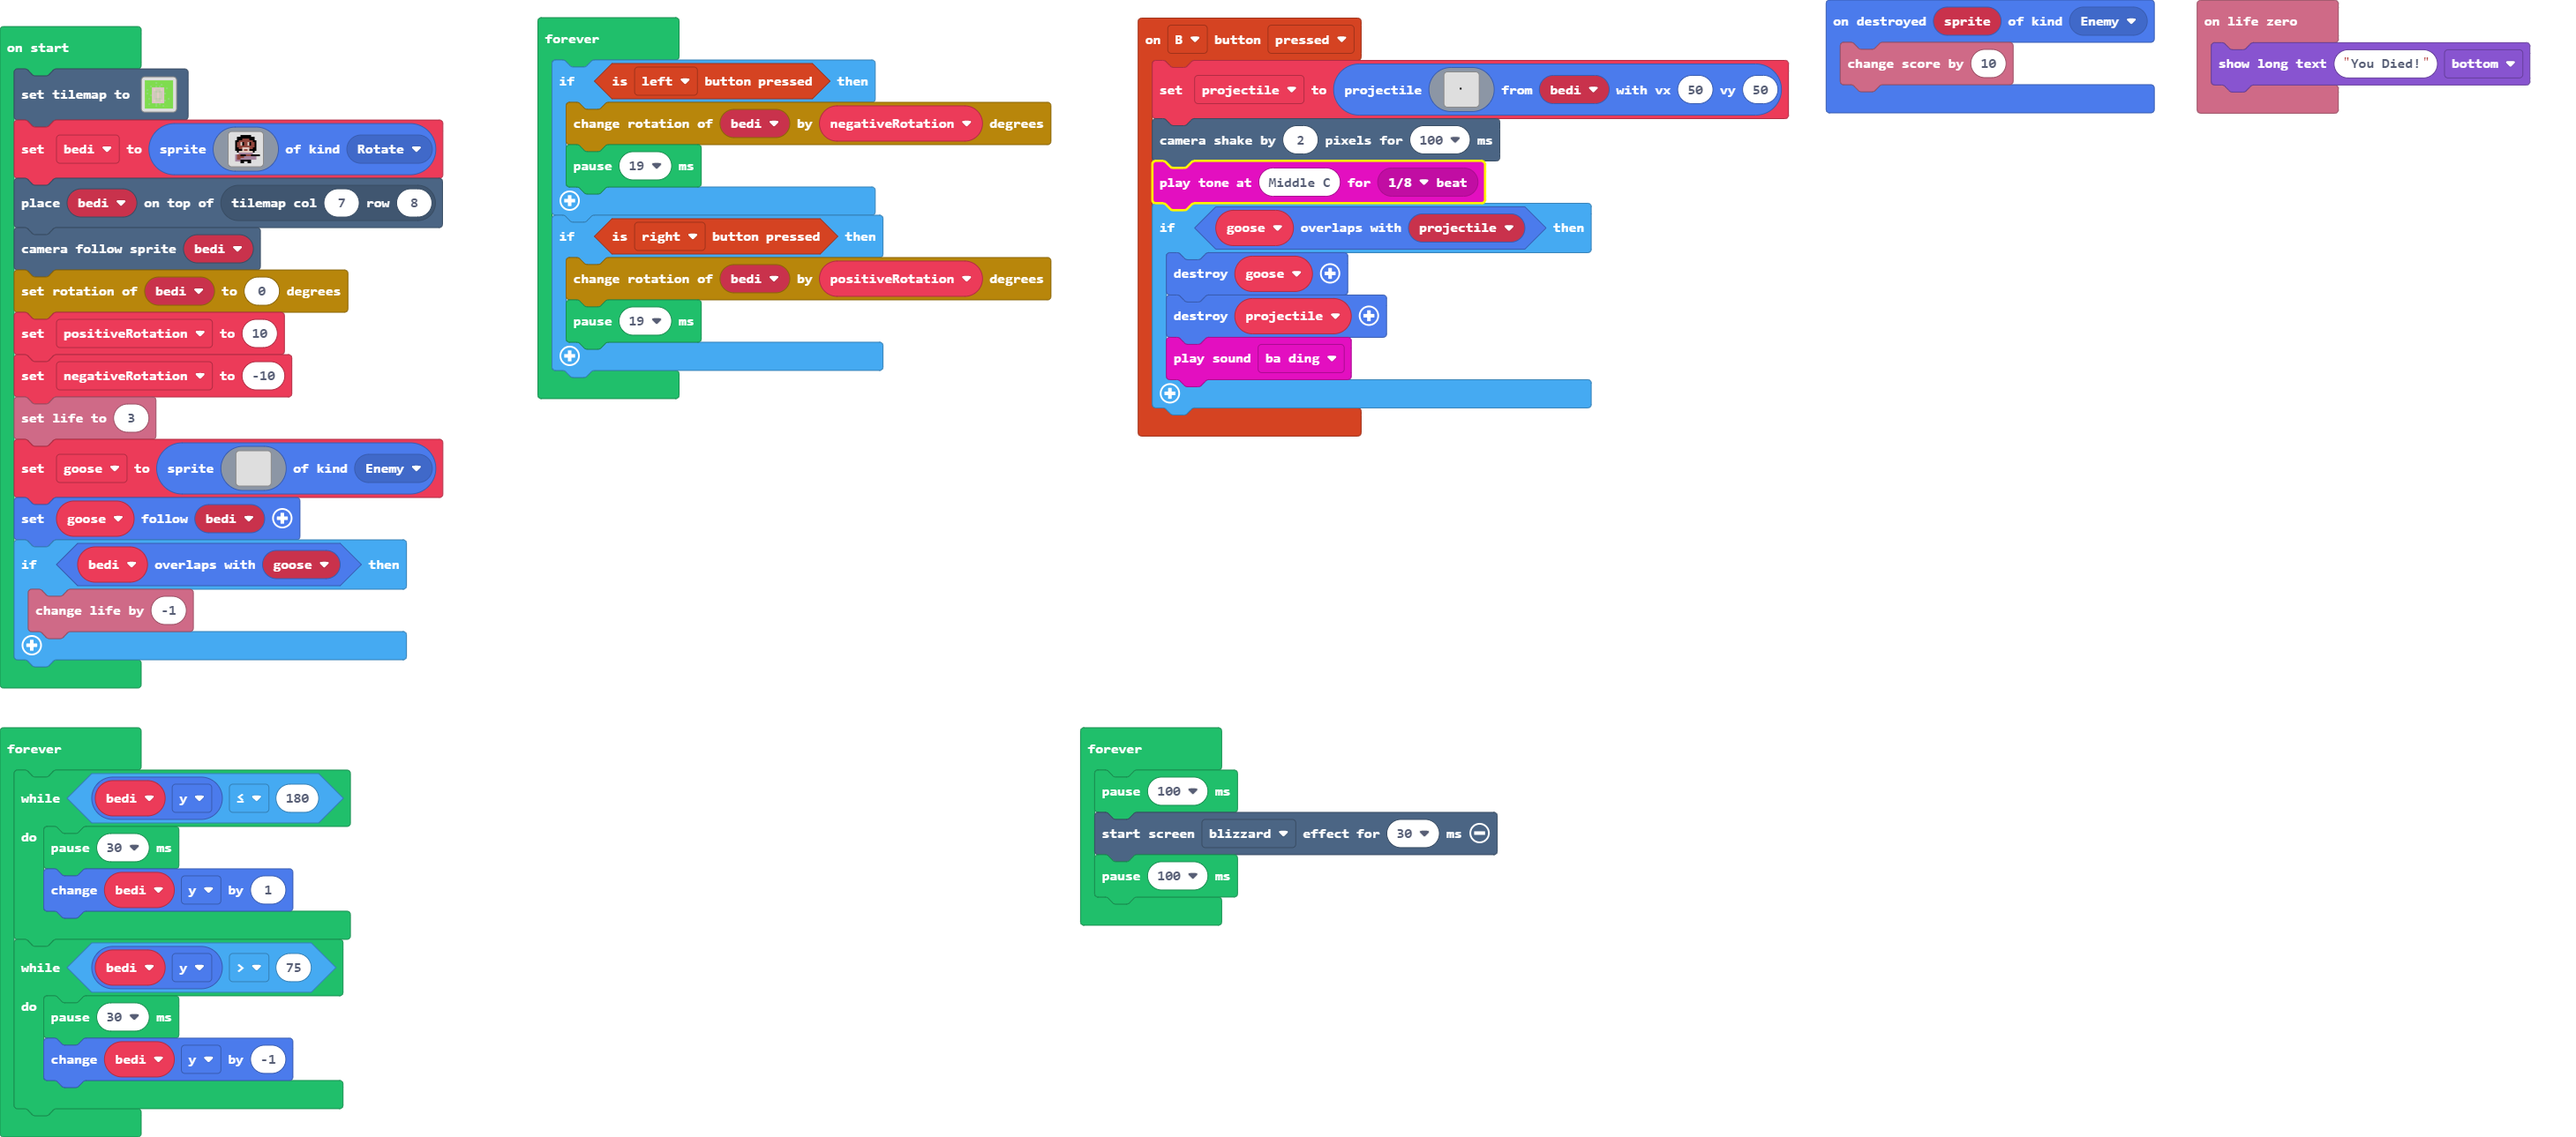
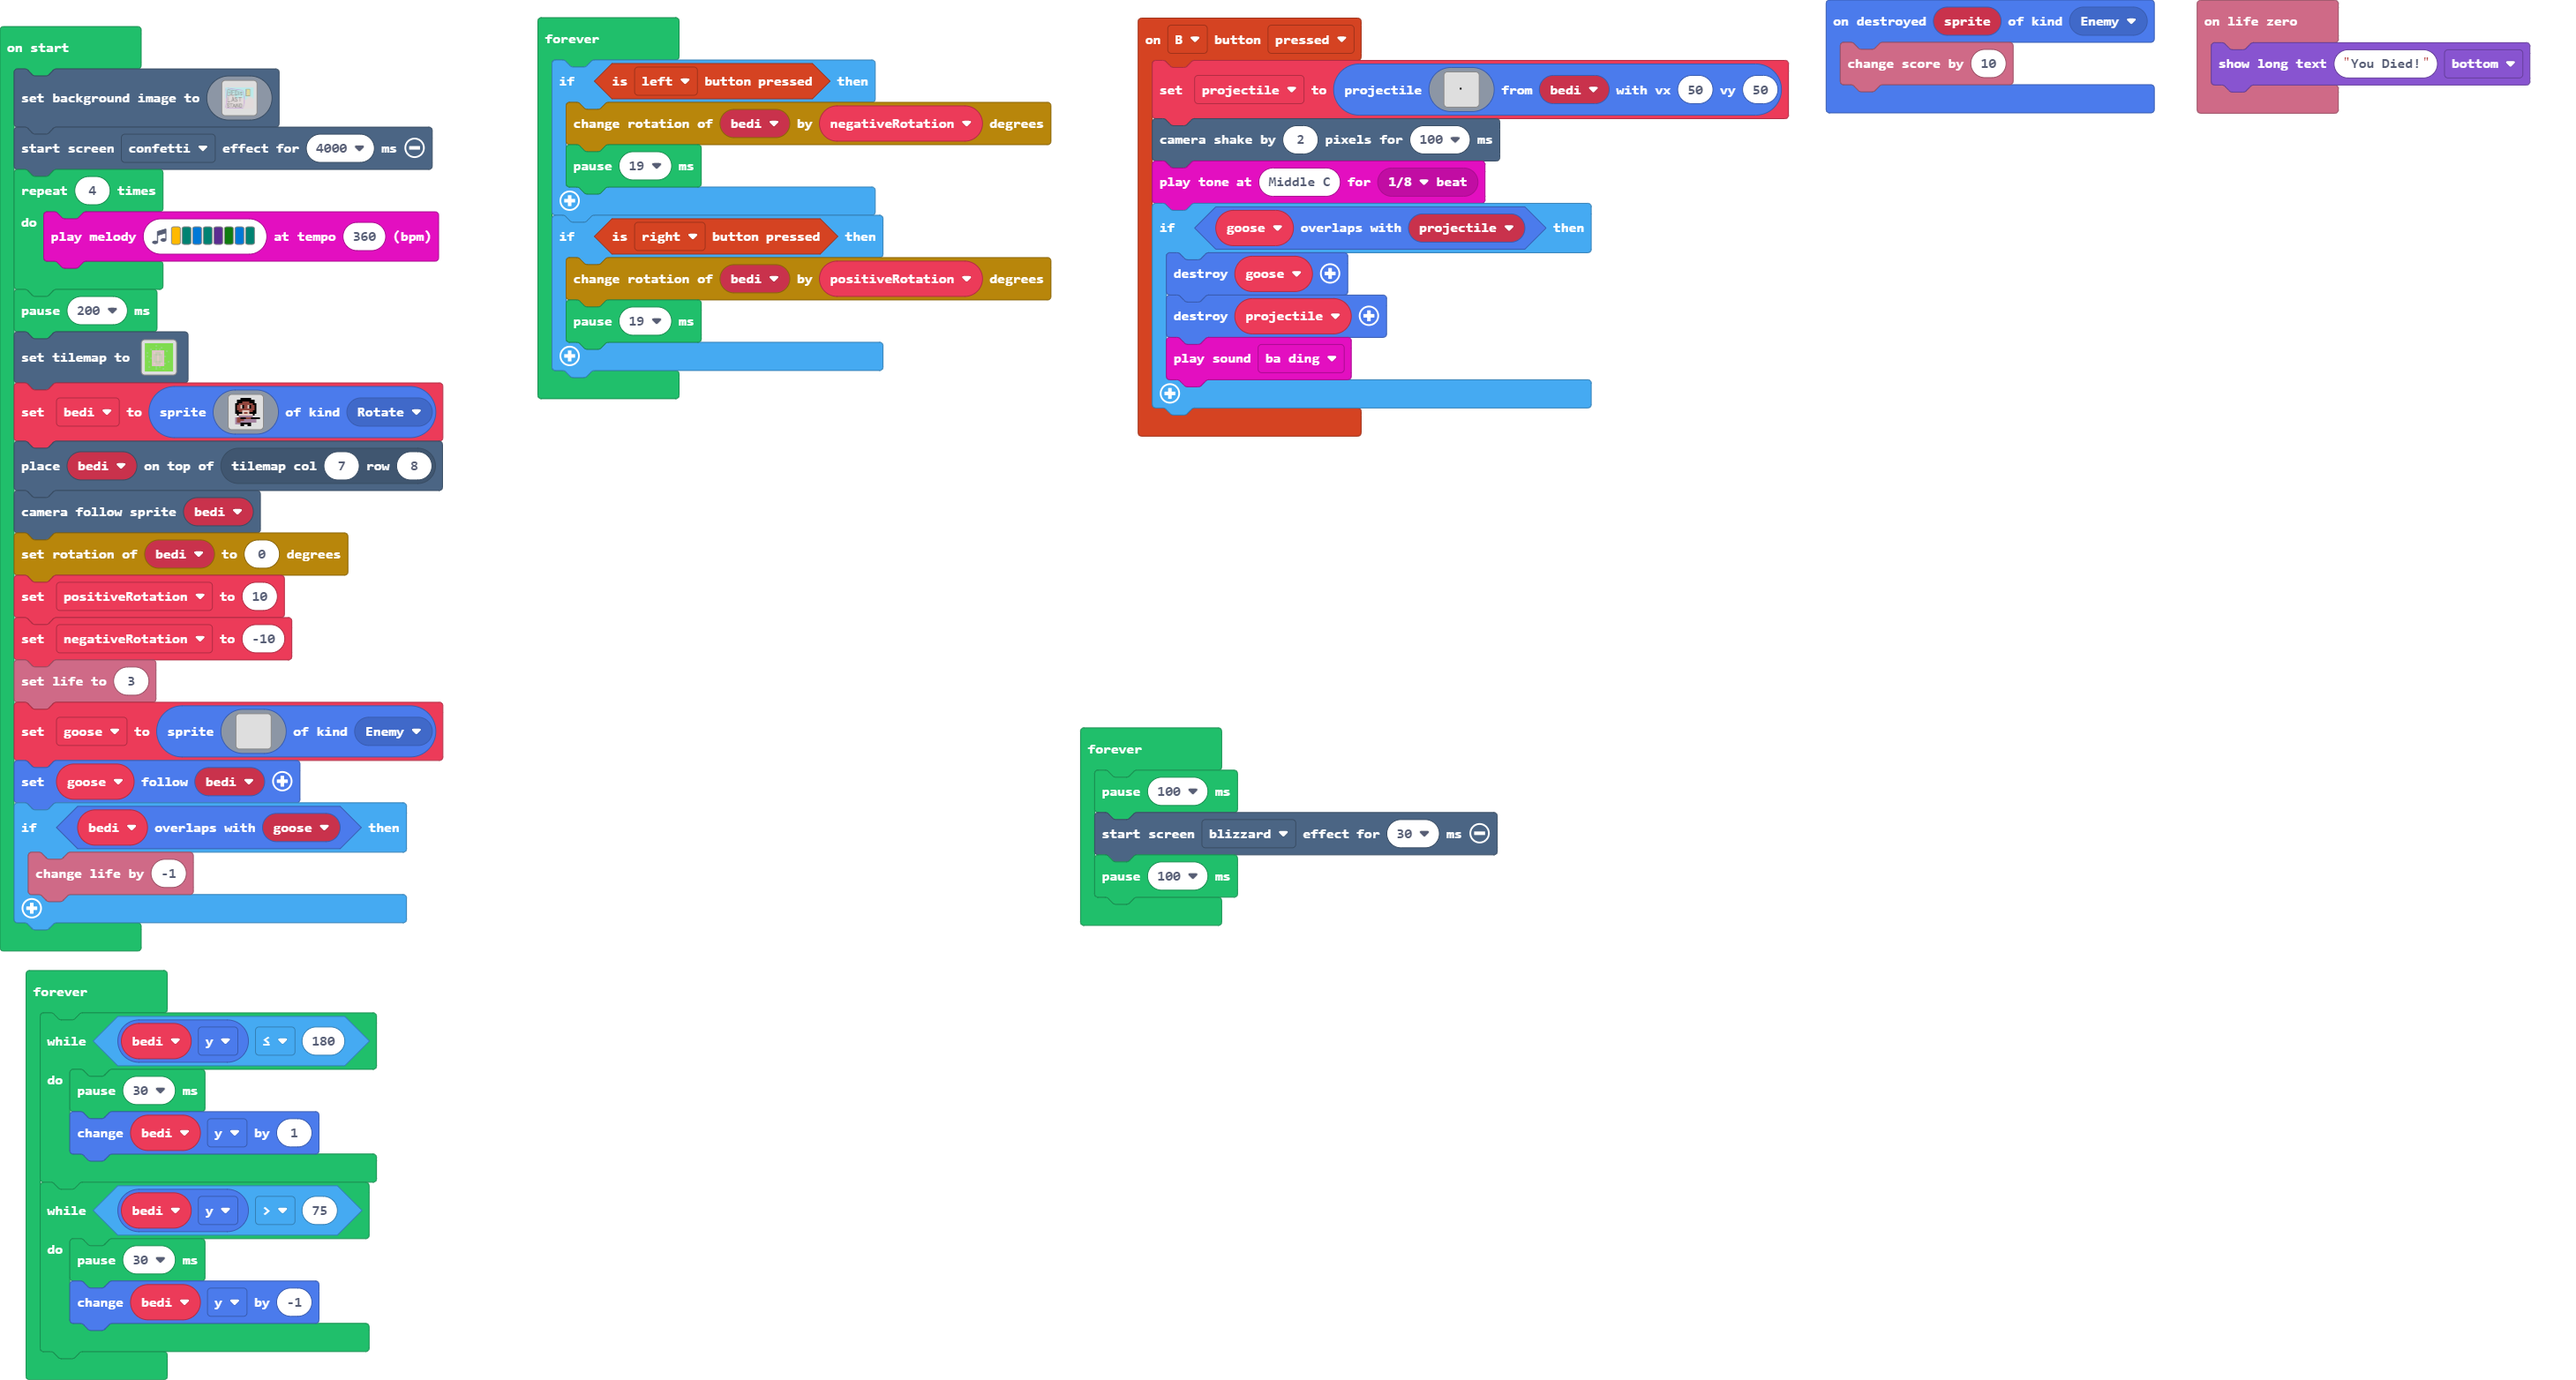
Bunch more stuff working

Changed region(s): [[0.0, 0.0, 0.4053, 1.0], [0.4365, 0.0, 0.9976, 0.4034], [0.4053, 0.5275, 0.5923, 0.8379]]

diff --git a/main.ts b/main.ts
@@ -37,6 +37,133 @@ sprites.onDestroyed(SpriteKind.Enemy, function (sprite) {
 let projectile: Sprite = null
 let goose: Sprite = null
 let bedi: Sprite = null
+scene.setBackgroundImage(img`
+    9999999999999999999999999999999999999999999999999999999999999999999999999999999999999999999999999999999999999999999999999999999999999999999999999999999999999999
+    9999999999999999999999999999999999999999999999999999999999999999999999999999999999999999999999999999999999999999999999999999999999999999999999999999999999999999
+    9999999999999999999999999999999999999999999999999999999999999999999999999999999999999999999999999999999999999999999999999999999999999999999999999999999999999999
[66 lines of base64/hex data omitted]
+    ddddddddaaadddfffddddddddddddddddddddddfffddddffffddddddddddddffffffdddddddddddddddfffddddddddddddddddddddddaaaddddddddddddddddddddddddddddddddddddddddddddddddd
+    ddddddddaaadddfffdddddddddddddddddddddffffdddddfffddddddddddddddffffdddddddddddddddfffddddddddddddddddddddddaaaddddddddddddddddddddddddddddddddddddddddddddddddd
+    ddddddddaaadddfffdddddddddddddddddddddfffffffffffffddddddddddddddffffddddddddddddddfffddddddddddddddddddddddaaaddddddddddddddddddddddddddddddddddddddddddddddddd
+    dddddddaaaadddfffdddddddddddddddddddddfffffffffffffdddddddddddddddfffddddddddddddddfffdddddddddddddddddddddaaaaddddddddddddddddddddddddddddddddddddddddddddddddd
+    dddddddaaaadddfffdddddddddddddddddddddfffffffffffffdddddddddddddddfffddddddddddddddfffdddddddddddddddddddddaaaaddddddddddddddddddddddddddddddddddddddddddddddddd
+    dddddddaaaddddfffdddddddddddddddddddddfffdddddddfffddddfffddddddddfffddddddddddddddfffdddddddddddddddddddddaaadddddddddddddddddddddddddddddddddddddddddddddddddd
+    dddddddaaaddddfffddddddddddddddddddddffffdddddddffffdddfffddddddddfffddddddddddddddfffdddddddddddddddddddddaaadddddddddddddddddddddddddddddddddddddddddddddddddd
+    dddddddaaaddddfffddddddddddddddddddddffffdddddddffffdddfffffddddddfffddddddddddddddfffdddddddddddddddddddddaaadddddddddddddddddddddddddddddddddddddddddddddddddd
+    dddddddaaaddddfffddddddddddddddddddddfffdddddddddfffddddfffffffdddfffddddddddddddddfffdddddddddddddddddddddaaadddddddddddddddddddddddddddddddddddddddddddddddddd
+    dddddddaaaddddfffddddddddddfffffdddddfffdddddddddfffddddfffffffffffffddddddddddddddfffdddddddddddddddddddddaaadddddddddddddddddddddddddddddddddddddddddddddddddd
+    ddddddaaaaddddfffddddddfffffffffdddddfffdddddddddffffdddfffffffffffddddddddddddddddfffddddddddddddddddddddaaaadddddddddddddddddddddddddddddddddddddddddddddddddd
+    ddddddaaaaddddfffdffffffffffffffdddddfffdddddddddffffddddddffffffffdddddddddddddddddddddddddddddddddddddddaaaadddddddddddddddddddddddddddddddddddddddddddddddddd
+    ddddddaaadddddfffffffffffffffddddddddfffddddddddddfffdddddddddddddddddddddddddddddddddddddddddddddddddddddaaaddddddddddddddddddddddddddddddddddddddddddddddddddd
+    ddddddaaadddddfffffffffffdddddddddddddddddddddddddddddddddddddddddddddddddddddddddddddddddddddddddddddddddaaaddddddddddddddddddddddddddddddddddddddddddddddddddd
+    ddddddaaadddddffffffddddddddddddddddddddddddddddddddddddddddddddddddddddddddddddddddddddddddddddddddddddddaaaddddddddddddddddddddddddddddddddddddddddddddddddddd
+    ddddddaaaddddddfffddddddddddddddddddddddddddddddddddddddddddddddddddddddddddddddddddddddddddddddddddddddddaaaddddddddddddddddddddddddddddddddddddddddddddddddddd
+    dddddaaaadddddddddddddddddddddddddddddddddddddddddddddddddddddddddddddddddddddddddddddddddddddddddddddddddaaaddddddddddddddddddddddddddddddddddddddddddddddddddd
+    dddddaaaadddddddddddddddddddddddddddddddddddddddddddddddddddddddddddddddddddddddddddddddddddddddddddddddddaaaddddddddddddddddddddddddddddddddddddddddddddddddddd
+    dddddaaadddddddddddddddddddddddddddddddddddddddddddddddddddddddddddddddddddddddddddddddddddddddddddddddddaaaaddddddddddddddddddddddddddddddddddddddddddddddddddd
+    dddddaaadddddddddddddddddddddddddddddddddddddddddddddddddddddddddddddddddddddddddddddddddddddddddddddddddaaaaddddddddddddddddddddddddddddddddddddddddddddddddddd
+    dddddaaadddddddddddddddddddddddddddddddddddddddddddddddddddddddddddddddddddddddddddddddddddddddddddddddddaaadddddddddddddddddddddddddddddddddddddddddddddddddddd
+    dddddaaadddddddddddddddddddddddddddddddddddddddddddddddddddddddddddddddddddddddddddddddddddddddddddddddddaaadddddddddddddddddddddddddddddddddddddddddddddddddddd
+    dddddaaaddddffffffdddddddddddddddddddddddddddddddddddddddddddddddddddddddddddddddddddddddddddddddddddddddaaadddddddddddddddddddddddddddddddddddddddddddddddddddd
+    ddddaaaaddffffffffffffdddddffffffffffffffffdddddddddddddddddddddfffddddddfffdddddfffffffdddddddddddddddddaaadddddddddddddddddddddddddddddddddddddddddddddddddddd
+    ddddaaaaddffffffffffffffdddffffffffffffffffdddddfffdddddddddddfffffddddddffffddddffffffffffffddddddddddddaaadddddddddddddddddddddddddddddddddddddddddddddddddddd
+    ddddaaadddfffdddffffffffdddffffffffffffffffdddddfffdddddddddddffffffdddddffffddddfffffffffffffddddddddddaaaadddddddddddddddddddddddddddddddddddddddddddddddddddd
+    ddddaaadddfffddddddddfffdddddddddfffddddddddddddffffffddddddddffffffddddddfffddddfffddfffffffffdddddddddaaaadddddddddddddddddddddddddddddddddddddddddddddddddddd
+    ddddaaadddfffddddddddfffdddddddddfffdddddddddddfffffffddddddddfffffffdddddfffddddfffdddddddffffdddddddddaaaddddddddddddddddddddddddddddddddddddddddddddddddddddd
+    ddddaaadddfffddddddddfffdddddddddfffdddddddddddfffffffddddddddfffffffdddddfffddddfffddddddddffffddddddddaaaddddddddddddddddddddddddddddddddddddddddddddddddddddd
+    dddaaaadddfffddddddddfffdddddddddfffdddddddddddfffdffffdddddddfffdffffddddfffddddfffdddddddddfffddddddddaaaddddddddddddddddddddddddddddddddddddddddddddddddddddd
+    dddaaaadddfffffddddddddddddddddddfffddddddddddffffdffffdddddddfffdffffddddfffddddfffdddddddddfffddddddddaaaddddddddddddddddddddddddddddddddddddddddddddddddddddd
+    dddaaaddddfffffddddddddddddddddddfffddddddddddffffddffffddddddfffddffffdddfffddddfffdddddddddfffddddddddaaaddddddddddddddddddddddddddddddddddddddddddddddddddddd
+    dddaaaddddddfffffddddddddddddddddfffddddddddddfffdddffffddddddfffddffffdddfffddddfffdddddddddfffddddddddaaaddddddddddddddddddddddddddddddddddddddddddddddddddddd
+    dddaaadddddddffffffffddddddddddddfffdddddddddffffddddfffddddddfffdddfffdddfffddddfffdddddddddfffdddddddaaaaddddddddddddddddddddddddddddddddddddddddddddddddddddd
+    dddaaadddddddfffffffffdddddddddddfffdddddddddffffddddffffdddddfffdddffffddfffddddfffdddddddddfffdddddddaaaaddddddddddddddddddddddddddddddddddddddddddddddddddddd
+    dddaaaddddddddddffffffffdddddddddfffdddddddddfffdddddffffdddddfffdddffffddfffddddfffdddddddddfffdddddddaaadddddddddddddddddddddddddddddddddddddddddddddddddddddd
+    ddaaaadddddddddddddfffffdddddddddfffddddddddfffffffffffffdddddfffddddffffdfffddddfffdddddddddfffdddddddaaadddddddddddddddddddddddddddddddddddddddddddddddddddddd
+    ddaaaaddddfffddddddddfffdddddddddfffddddddddffffffffffffffddddfffddddffffdfffddddfffdddddddddfffdddddddaaadddddddddddddddddddddddddddddddddddddddddddddddddddddd
+    ddaaadddddfffddddddddfffdddddddddfffddddddddffffffffffffffddddfffdddddfffffffddddfffdddddddddfffdddddddaaadddddddddddddddddddddddddddddddddddddddddddddddddddddd
+    ddaaadddddfffddddddddfffdddddddddfffdddddddffffddddddddffffdddfffdddddfffffffddddfffddddddddffffdddddddaaadddddddddddddddddddddddddddddddddddddddddddddddddddddd
+    ddaaadddddfffddddddddfffdddddddddfffdddddddffffddddddddffffdddfffddddddffffffddddfffdddddddfffffddddddaaaadddddddddddddddddddddddddddddddddddddddddddddddddddddd
+    ddaaadddddfffffffdddffffdddddddddfffdddddddfffddddddddddfffdddfffddddddffffffddddfffdfffffffffffddddddaaaadddddddddddddddddddddddddddddddddddddddddddddddddddddd
+    daaaadddddffffffffffffffdddddddddfffddddddffffddddddddddffffddfffdddddddfffffddddffffffffffffffdddddddaaaddddddddddddddddddddddddddddddddddddddddddddddddddddddd
+    daaaadddddddfffffffffffddddddddddfffddddddffffddddddddddffffddfffdddddddffffdddddffffffffffffddddddddddddddddddddddddddddddddddddddddddddddddddddddddddddddddddd
+    daaadddddddddddfffffffdddddddddddfffddddddfffddddddddddddfffddfffddddddddfffdddddffffffddddddddddddddddddddddddddddddddddddddddddddddddddddddddddddddddddddddddd
+    ddddddddddddddddddddddddddddddddddddddddddddddddddddddddddddddfffddddddddddddddddddddddddddddddddddddddddddddddddddddddddddddddddddddddddddddddddddddddddddddddd
+    ddddddaaaaaaaaaaaaaaaaaaaaaaaaaaaaaaaaaaaaaaaaaaaaaaaaaddddddddddddddddddddddddddddddddddddddddddddddddddddddddddddddddddddddddddddddddddddddddddddddddddddddddd
+    ddddddaaaaaaaaaaaaaaaaaaaaaaaaaaaaaaaaaaaaaaaaaaaaaaaaaaaaaaaaaaaaaaaaaaaaaaaaaaaaaaaaaaaaaaaaaaaaaaaadddddddddddddddddddddddddddddddddddddddddddddddddddddddddd
+    ddddddaaaaaaaaaaaaaaaaaaaaaaaaaaaaaaaaaaaaaaaaaaaaaaaaaaaaaaaaaaaaaaaaaaaaaaaaaaaaaaaaaaaaaaaaaaaaaaaadddddddddddddddddddddddddddddddddddddddddddddddddddddddddd
+    dddddddddddddddddddddddddddddddddddddddddddddddddddddaaaaaaaaaaaaaaaaaaaaaaaaaaaaaaaaaaaaaaaaaaaaaaaaadddddddddddddddddddddddddddddddddddddddddddddddddddddddddd
+    dddddddddddddddddddddddddddddddddddddddddddddddddddddddddddddddddddddddddddddddddddddddddddddddddddddddddddddddddddddddddddddddddddddddddddddddddddddddddddddddd
+    `)
+effects.confetti.startScreenEffect(4000)
+for (let index = 0; index < 4; index++) {
+    music.playMelody("A F E F D G E F ", 360)
+}
+pause(200)
 tiles.setTilemap(tilemap`level_0`)
 bedi = sprites.create(img`
     . . . . . f f f f f f . . . . . 
@@ -95,6 +222,11 @@ forever(function () {
     }
 })
 forever(function () {
+    pause(100)
+    effects.blizzard.startScreenEffect(30)
+    pause(100)
+})
+forever(function () {
     while (bedi.y <= 180) {
         pause(30)
         bedi.y += 1
@@ -103,9 +235,4 @@ forever(function () {
         pause(30)
         bedi.y += -1
     }
-})
-forever(function () {
-    pause(100)
-    effects.blizzard.startScreenEffect(30)
-    pause(100)
 })
